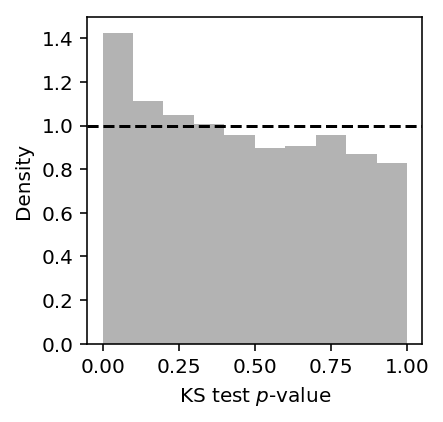
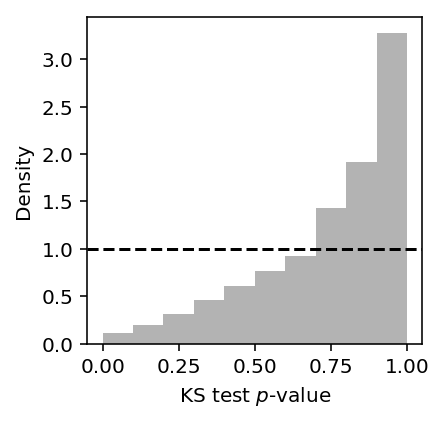
Republish

Changed region(s): [[0.088, 0.0616, 0.9391, 0.8009], [0.088, 0.6777, 0.1761, 0.7393], [0.088, 0.4621, 0.1761, 0.5237]]

diff --git a/docs/zinb.html b/docs/zinb.html
@@ -1,7 +1,7 @@
 <!DOCTYPE html>
 <html lang="en">
 <head>
-<!-- 2018-12-12 Wed 21:57 -->
+<!-- 2018-12-13 Thu 10:46 -->
 <meta charset="utf-8">
 <meta name="viewport" content="width=device-width, initial-scale=1">
 <title>Mean/dispersion estimation</title>
@@ -273,7 +273,7 @@ Here, we solve (1).
 <ol class="org-ol">
 <li><a href="#orgd9442d4">We implement GPU-based ML estimation</a> of a zero-inflated negative binomial
 model</li>
-<li><a href="#org720955e">We show in simulation</a> that the estimates are unbiased</li>
+<li><a href="#org5529cbf">We show in simulation</a> that the estimates are unbiased</li>
 <li><a href="#org7ae35b9">We compare ZINB estimates of mean expression</a> against sample-based estimates</li>
 <li><a href="#org17af587">We implement a test for goodness of fit</a> for the ZINB model</li>
 </ol>
@@ -372,9 +372,9 @@ The method is implemented in the Python package <code>scqtl</code>.
 </p>
 </div>
 
-<div id="outline-container-org720955e" class="outline-3">
-<h3 id="org720955e">Simulation</h3>
-<div class="outline-text-3" id="text-org720955e">
+<div id="outline-container-org5529cbf" class="outline-3">
+<h3 id="org5529cbf">Simulation</h3>
+<div class="outline-text-3" id="text-org5529cbf">
 <div class="org-src-container">
 <pre class="src src-ipython" id="org6a724dd">&lt;&lt;zinb-imports&gt;&gt;
 &lt;&lt;tf-imports&gt;&gt;
@@ -921,9 +921,9 @@ Computing analytic SE runs into numerical problems.
 </div>
 </div>
 
-<div id="outline-container-org31d1c4e" class="outline-3">
-<h3 id="org31d1c4e">Simulation</h3>
-<div class="outline-text-3" id="text-org31d1c4e">
+<div id="outline-container-orgd78f895" class="outline-3">
+<h3 id="orgd78f895">Simulation</h3>
+<div class="outline-text-3" id="text-orgd78f895">
 <p>
 Check the parameter estimation on simulated data.
 </p>
@@ -1911,8 +1911,8 @@ Implement the diagnostic test.
 </div>
 </div>
 
-<div id="outline-container-org5529cbf" class="outline-3">
-<h3 id="diagnostic-sim"><a id="org5529cbf"></a>Simulation</h3>
+<div id="outline-container-org0e1e03a" class="outline-3">
+<h3 id="diagnostic-sim"><a id="org0e1e03a"></a>Simulation</h3>
 <div class="outline-text-3" id="text-diagnostic-sim">
 <p>
 Look at randomized residuals for some simulated data. Use the CPU
@@ -2254,6 +2254,12 @@ fig.tight_layout()
 <p><img src="figure/zinb.org/ks-test-double-use-pois-m.png" alt="ks-test-double-use-pois-m.png">
 </p>
 </div>
+
+<p>
+The results suggest that the diagnostic is only valid for \(m = 1\), because
+for \(m > 1\) the randomized quantiles are no longer iid. For the case where
+\(m = 1\), the skew in the \(p\)-values suggests the test is conservative.
+</p>
 </div>
 </div>
 
@@ -2312,7 +2318,7 @@ Run the diagnostic on the estimated parameters.
     logodds=logodds,
     size=annotations[<span class="org-string">'mol_hs'</span>],
     onehot=onehot,
-    n_samples=4)
+    n_samples=1)
 
   <span class="org-variable-name">result</span> = pd.concat(pool.<span class="org-builtin">map</span>(
     process_chunk_,
@@ -2323,7 +2329,7 @@ Run the diagnostic on the estimated parameters.
 </div>
 
 <div class="org-src-container">
-<pre class="src src-sh">sbatch --partition=broadwl --job-name=<span class="org-string">"tf-diagnostic"</span> --mem=8G -n1 -c28 --exclusive --time=60:00
+<pre class="src src-sh">sbatch --partition=broadwl --job-name=<span class="org-string">"tf-diagnostic"</span> --mem=8G -n1 -c28 --exclusive --time=10:00
 <span class="org-comment-delimiter">#</span><span class="org-comment">!/bin/bash</span>
 <span class="org-builtin">source</span> activate scqtl
 python /project2/mstephens/aksarkar/projects/singlecell-qtl/code/tf-diagnostic.py
@@ -2331,7 +2337,7 @@ python /project2/mstephens/aksarkar/projects/singlecell-qtl/code/tf-diagnostic.p
 </div>
 
 <pre class="example">
-Submitted batch job 55713822
+Submitted batch job 55723712
 
 </pre>
 
@@ -2346,223 +2352,13 @@ plt.gcf().set_size_inches(3, 3)
 plt.hist(diagnostic_results[<span class="org-string">'3'</span>], density=<span class="org-constant">True</span>, color=<span class="org-string">'.7'</span>, bins=10)
 plt.axhline(y=1, c=<span class="org-string">'k'</span>, ls=<span class="org-string">'--'</span>)
 plt.xlabel(<span class="org-string">'KS test $p$-value'</span>)
-plt.ylabel(<span class="org-string">'Density'</span>)
+<span class="org-variable-name">_</span> = plt.ylabel(<span class="org-string">'Density'</span>)
 </pre>
 </div>
 
-<pre class="example">
-Text(0,0.5,'Density')
-
-</pre>
 
 <div class="figure">
 <p><img src="figure/zinb.org/design-0-ks.png" alt="design-0-ks.png">
-</p>
-</div>
-
-<p>
-Look at randomized quantile residuals for the genes with least departure from
-ZINB.
-</p>
-
-<div class="org-src-container">
-<pre class="src src-ipython">
-</pre>
-</div>
-
-<div class="org-src-container">
-<pre class="src src-ipython"><span class="org-variable-name">query</span> = diagnostic_results.sort_values(<span class="org-string">'2'</span>, ascending=<span class="org-constant">False</span>).merge(gene_info, left_index=<span class="org-constant">True</span>, right_index=<span class="org-constant">True</span>)[[<span class="org-string">'name'</span>, <span class="org-string">'1'</span>, <span class="org-string">'2'</span>]].head(n=5)
-query
-</pre>
-</div>
-
-<pre class="example">
-name         1             2
-ENSG00000173818   ENDOV  0.026892  6.100999e-04
-ENSG00000196724  ZNF418  0.034138  4.320665e-06
-ENSG00000129007  CALML4  0.034768  2.657392e-06
-ENSG00000166016   ABTB2  0.039756  4.142249e-08
-ENSG00000173480  ZNF417  0.040310  2.521349e-08
-</pre>
-
-<div class="org-src-container">
-<pre class="src src-ipython"><span class="org-variable-name">log_mu</span> = pd.read_table(<span class="org-string">"/project2/mstephens/aksarkar/projects/singlecell-qtl/data/density-estimation/design0/zi2-log-mu.txt.gz"</span>, index_col=0, sep=<span class="org-string">' '</span>)
-<span class="org-variable-name">log_phi</span> = pd.read_table(<span class="org-string">"/project2/mstephens/aksarkar/projects/singlecell-qtl/data/density-estimation/design0/zi2-log-phi.txt.gz"</span>, index_col=0, sep=<span class="org-string">' '</span>)
-<span class="org-variable-name">logodds</span> = pd.read_table(<span class="org-string">"/project2/mstephens/aksarkar/projects/singlecell-qtl/data/density-estimation/design0/zi2-logodds.txt.gz"</span>, index_col=0, sep=<span class="org-string">' '</span>)
-
-<span class="org-variable-name">keep_samples</span> = pd.read_table(<span class="org-string">'/project2/mstephens/aksarkar/projects/singlecell-qtl/data/quality-single-cells.txt'</span>, index_col=0, header=<span class="org-constant">None</span>)
-<span class="org-variable-name">annotations</span> = pd.read_table(<span class="org-string">'/project2/mstephens/aksarkar/projects/singlecell-qtl/data/scqtl-annotation.txt'</span>)
-<span class="org-variable-name">annotations</span> = annotations.loc[keep_samples.values.ravel()]
-
-<span class="org-variable-name">onehot</span> = recode(annotations, <span class="org-string">'chip_id'</span>)
-</pre>
-</div>
-
-<div class="org-src-container">
-<pre class="src src-ipython"><span class="org-variable-name">data</span> = []
-<span class="org-keyword">for</span> chunk <span class="org-keyword">in</span> pd.read_table(<span class="org-string">'/project2/mstephens/aksarkar/projects/singlecell-qtl/data/scqtl-counts.txt.gz'</span>, index_col=0, chunksize=100):
-  <span class="org-variable-name">chunk</span> = chunk.loc[:,keep_samples.values.ravel()].<span class="org-builtin">filter</span>(items=query.index, axis=<span class="org-string">'index'</span>)
-  <span class="org-keyword">if</span> <span class="org-keyword">not</span> chunk.empty:
-    data.append(chunk)
-<span class="org-variable-name">data</span> = pd.concat(data)
-</pre>
-</div>
-
-<p>
-Look at the histogram of randomized quantiles.
-</p>
-
-<div class="org-src-container">
-<pre class="src src-ipython">plt.clf()
-plt.gcf().set_size_inches(3, 3)
-plt.set_cmap(<span class="org-string">'Set2'</span>)
-<span class="org-variable-name">grid</span> = np.linspace(0, 1, 100)
-<span class="org-keyword">for</span> k, row <span class="org-keyword">in</span> data.iterrows():
-  <span class="org-variable-name">Z</span> = rpp(row, log_mu.loc[k], log_phi.loc[k], logodds.loc[k], annotations[<span class="org-string">'mol_hs'</span>], onehot, n_samples=1)
-  plt.hist(Z.ravel(), histtype=<span class="org-string">'step'</span>, density=<span class="org-constant">True</span>, bins=10, label=gene_info.loc[k, <span class="org-string">'name'</span>])
-plt.axhline(y=1, ls=<span class="org-string">':'</span>, c=<span class="org-string">'k'</span>)
-plt.legend(frameon=<span class="org-constant">False</span>, loc=<span class="org-string">'center left'</span>, bbox_to_anchor=(1, .5))
-plt.xlabel(<span class="org-string">'Randomized quantile'</span>)
-plt.ylabel(<span class="org-string">'Density'</span>)
-</pre>
-</div>
-
-<pre class="example">
-Text(0,0.5,'Density')
-
-</pre>
-
-<div class="figure">
-<p><img src="figure/zinb.org/hist-rqrs.png" alt="hist-rqrs.png">
-</p>
-</div>
-
-<p>
-Look at the QQ plot of the randomized quantiles.
-</p>
-
-<div class="org-src-container">
-<pre class="src src-ipython">plt.clf()
-plt.gcf().set_size_inches(3, 3)
-plt.set_cmap(<span class="org-string">'Set2'</span>)
-<span class="org-keyword">for</span> k, row <span class="org-keyword">in</span> data.iterrows():
-  <span class="org-variable-name">Z</span> = rpp(row, log_mu.loc[k], log_phi.loc[k], logodds.loc[k], annotations[<span class="org-string">'mol_hs'</span>], onehot, n_samples=10)
-  plt.plot(<span class="org-builtin">sorted</span>(Z.ravel()), np.linspace(0, 1, np.prod(Z.shape)), label=gene_info.loc[k, <span class="org-string">'name'</span>])
-plt.plot([0, 1], [0, 1], c=<span class="org-string">'r'</span>, ls=<span class="org-string">'--'</span>)
-plt.legend(frameon=<span class="org-constant">False</span>, loc=<span class="org-string">'center left'</span>, bbox_to_anchor=(1, .5))
-plt.xlabel(<span class="org-string">'Theoretical quantiles'</span>)
-plt.ylabel(<span class="org-string">'Observed quantiles'</span>)
-</pre>
-</div>
-
-<pre class="example">
-Text(0,0.5,'Observed quantiles')
-
-</pre>
-
-<div class="figure">
-<p><img src="figure/zinb.org/rqrs.png" alt="rqrs.png">
-</p>
-</div>
-
-<p>
-Look at one of the genes, and the estimated average density.
-</p>
-
-<div class="org-src-container">
-<pre class="src src-ipython"><span class="org-variable-name">k</span> = <span class="org-string">'ENSG00000173818'</span>
-<span class="org-variable-name">n</span> = onehot.dot(np.exp(-log_phi.loc[k]))
-<span class="org-variable-name">pi0</span> = onehot.dot(sp.expit(logodds.loc[k]))
-<span class="org-variable-name">p</span> = 1 / (1 + (annotations[<span class="org-string">'mol_hs'</span>] * onehot.dot(np.exp(log_mu.loc[k] + log_mu.loc[k]))))
-
-<span class="org-variable-name">grid</span> = np.arange(data.loc[k].<span class="org-builtin">max</span>())
-<span class="org-variable-name">pmf</span> = []
-<span class="org-keyword">for</span> value <span class="org-keyword">in</span> grid:
-  <span class="org-variable-name">pmf_value</span> = st.nbinom(n=n, p=p).pmf(value).mean()
-  pmf.append(pmf_value)
-<span class="org-variable-name">pmf</span> = np.array(pmf)
-<span class="org-comment-delimiter"># </span><span class="org-comment">pmf[0] += pi0.mean()</span>
-
-plt.clf()
-plt.gcf().set_size_inches(3, 3)
-plt.hist(data.loc[k], color=<span class="org-string">'k'</span>, bins=grid)
-plt.plot(.5 + grid, data.shape[1] * pmf, c=<span class="org-string">'r'</span>, lw=1)
-plt.xlabel(<span class="org-string">'UMI count'</span>)
-plt.ylabel(<span class="org-string">'Number of cells'</span>)
-</pre>
-</div>
-
-<pre class="example">
-Text(0,0.5,'Number of cells')
-
-</pre>
-
-<div class="figure">
-<p><img src="figure/zinb.org/endov.png" alt="endov.png">
-</p>
-</div>
-
-<p>
-For comparison, look at randomized quantiles for the CPU-based solution.
-</p>
-
-<div class="org-src-container">
-<pre class="src src-ipython"><span class="org-variable-name">endov_res</span> = pd.read_table(<span class="org-string">'/scratch/midway2/aksarkar/singlecell/density-estimation/np/result-21.txt.gz'</span>, compression=<span class="org-string">'gzip'</span>, header=<span class="org-constant">None</span>)
-</pre>
-</div>
-
-<div class="org-src-container">
-<pre class="src src-ipython"><span class="org-variable-name">Z</span> = rpp(data.loc[<span class="org-string">'ENSG00000173818'</span>], endov_res[2], endov_res[3], -endov_res[4], annotations[<span class="org-string">'mol_hs'</span>], onehot, n_samples=10)
-
-plt.clf()
-plt.gcf().set_size_inches(3, 3)
-plt.hist(Z.ravel(), density=<span class="org-constant">True</span>, bins=10)
-plt.axhline(y=1, ls=<span class="org-string">':'</span>, c=<span class="org-string">'k'</span>)
-plt.xlabel(<span class="org-string">'Randomized quantile'</span>)
-plt.ylabel(<span class="org-string">'Density'</span>)
-</pre>
-</div>
-
-<pre class="example">
-Text(0,0.5,'Density')
-
-</pre>
-
-<div class="figure">
-<p><img src="figure/zinb.org/np-endov.png" alt="np-endov.png">
-</p>
-</div>
-
-<p>
-Compare the CPU solution to the GPU solution.
-</p>
-
-<div class="org-src-container">
-<pre class="src src-ipython">plt.clf()
-<span class="org-variable-name">fig</span>, <span class="org-variable-name">ax</span> = plt.subplots(1, 3)
-fig.set_size_inches(8, 3)
-ax[0].scatter(log_mu.loc[<span class="org-string">'ENSG00000173818'</span>], endov_res[2], c=<span class="org-string">'k'</span>, s=1)
-ax[0].plot([-13,-10], [-13,-10], c=<span class="org-string">'r'</span>, ls=<span class="org-string">':'</span>)
-ax[0].set_xlabel(<span class="org-string">'GPU estimated $\ln\mu$'</span>)
-ax[0].set_ylabel(<span class="org-string">'CPU estiamted $\ln\mu$'</span>)
-
-ax[1].scatter(log_phi.loc[<span class="org-string">'ENSG00000173818'</span>], endov_res[3], c=<span class="org-string">'k'</span>, s=1)
-ax[1].plot([-8,2.5], [-8,2.5], c=<span class="org-string">'r'</span>, ls=<span class="org-string">':'</span>)
-ax[1].set_xlabel(<span class="org-string">'GPU estimated $\ln\phi$'</span>)
-ax[1].set_ylabel(<span class="org-string">'CPU estiamted $\ln\phi$'</span>)
-
-ax[2].scatter(logodds.loc[<span class="org-string">'ENSG00000173818'</span>], endov_res[4], c=<span class="org-string">'k'</span>, s=1)
-ax[2].plot([-8,1], [-8,1], c=<span class="org-string">'r'</span>, ls=<span class="org-string">':'</span>)
-ax[2].set_xlabel(<span class="org-string">'GPU estimated log odds'</span>)
-ax[2].set_ylabel(<span class="org-string">'CPU estimated log odds'</span>)
-
-fig.tight_layout()
-</pre>
-</div>
-
-
-<div class="figure">
-<p><img src="figure/zinb.org/cpu-gpu-endov.png" alt="cpu-gpu-endov.png">
 </p>
 </div>
 </div>
@@ -2571,7 +2367,7 @@ fig.tight_layout()
 </div>
 <div id="postamble" class="status">
 <p class="author">Author: Abhishek Sarkar</p>
-<p class="date">Created: 2018-12-12 Wed 21:57</p>
+<p class="date">Created: 2018-12-13 Thu 10:46</p>
 <p class="validation"><a href="http://validator.w3.org/check?uri=referer">Validate</a></p>
 </div>
 </body>
